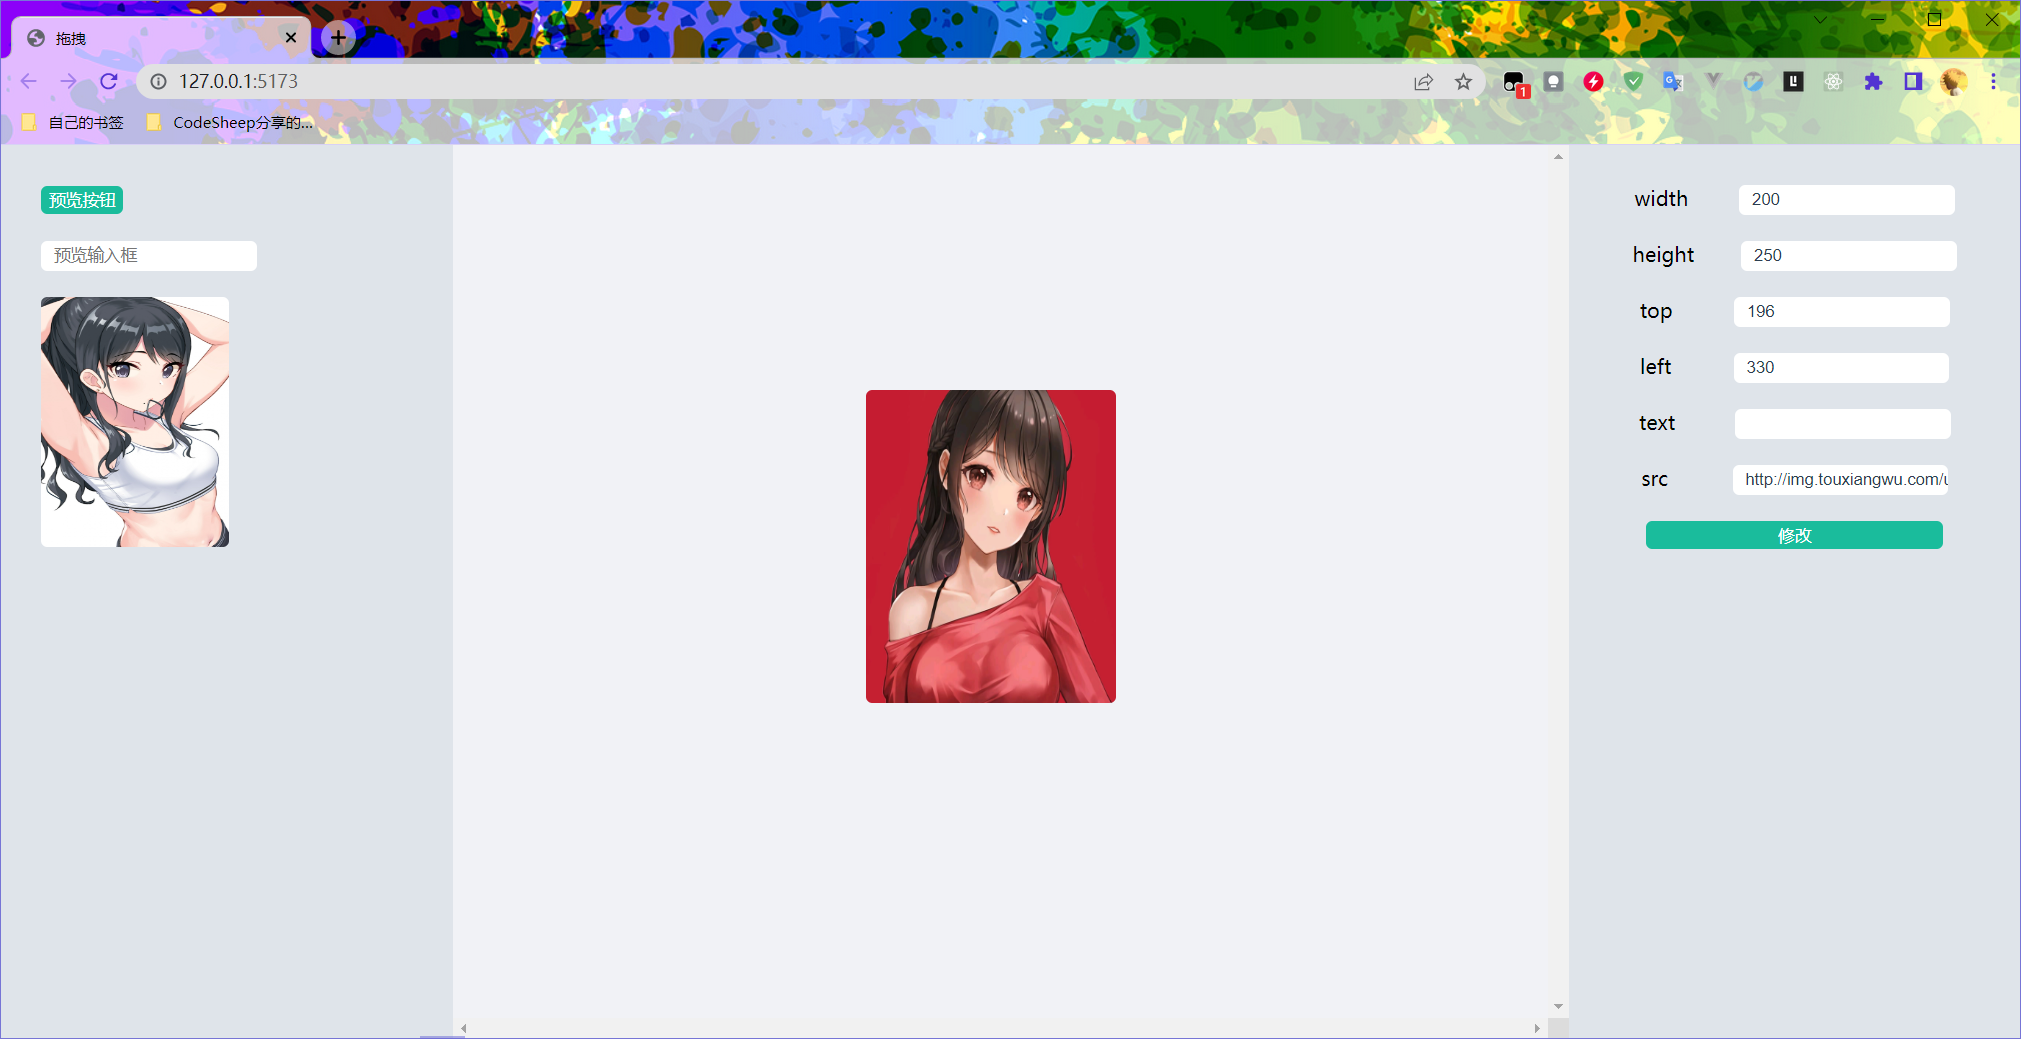
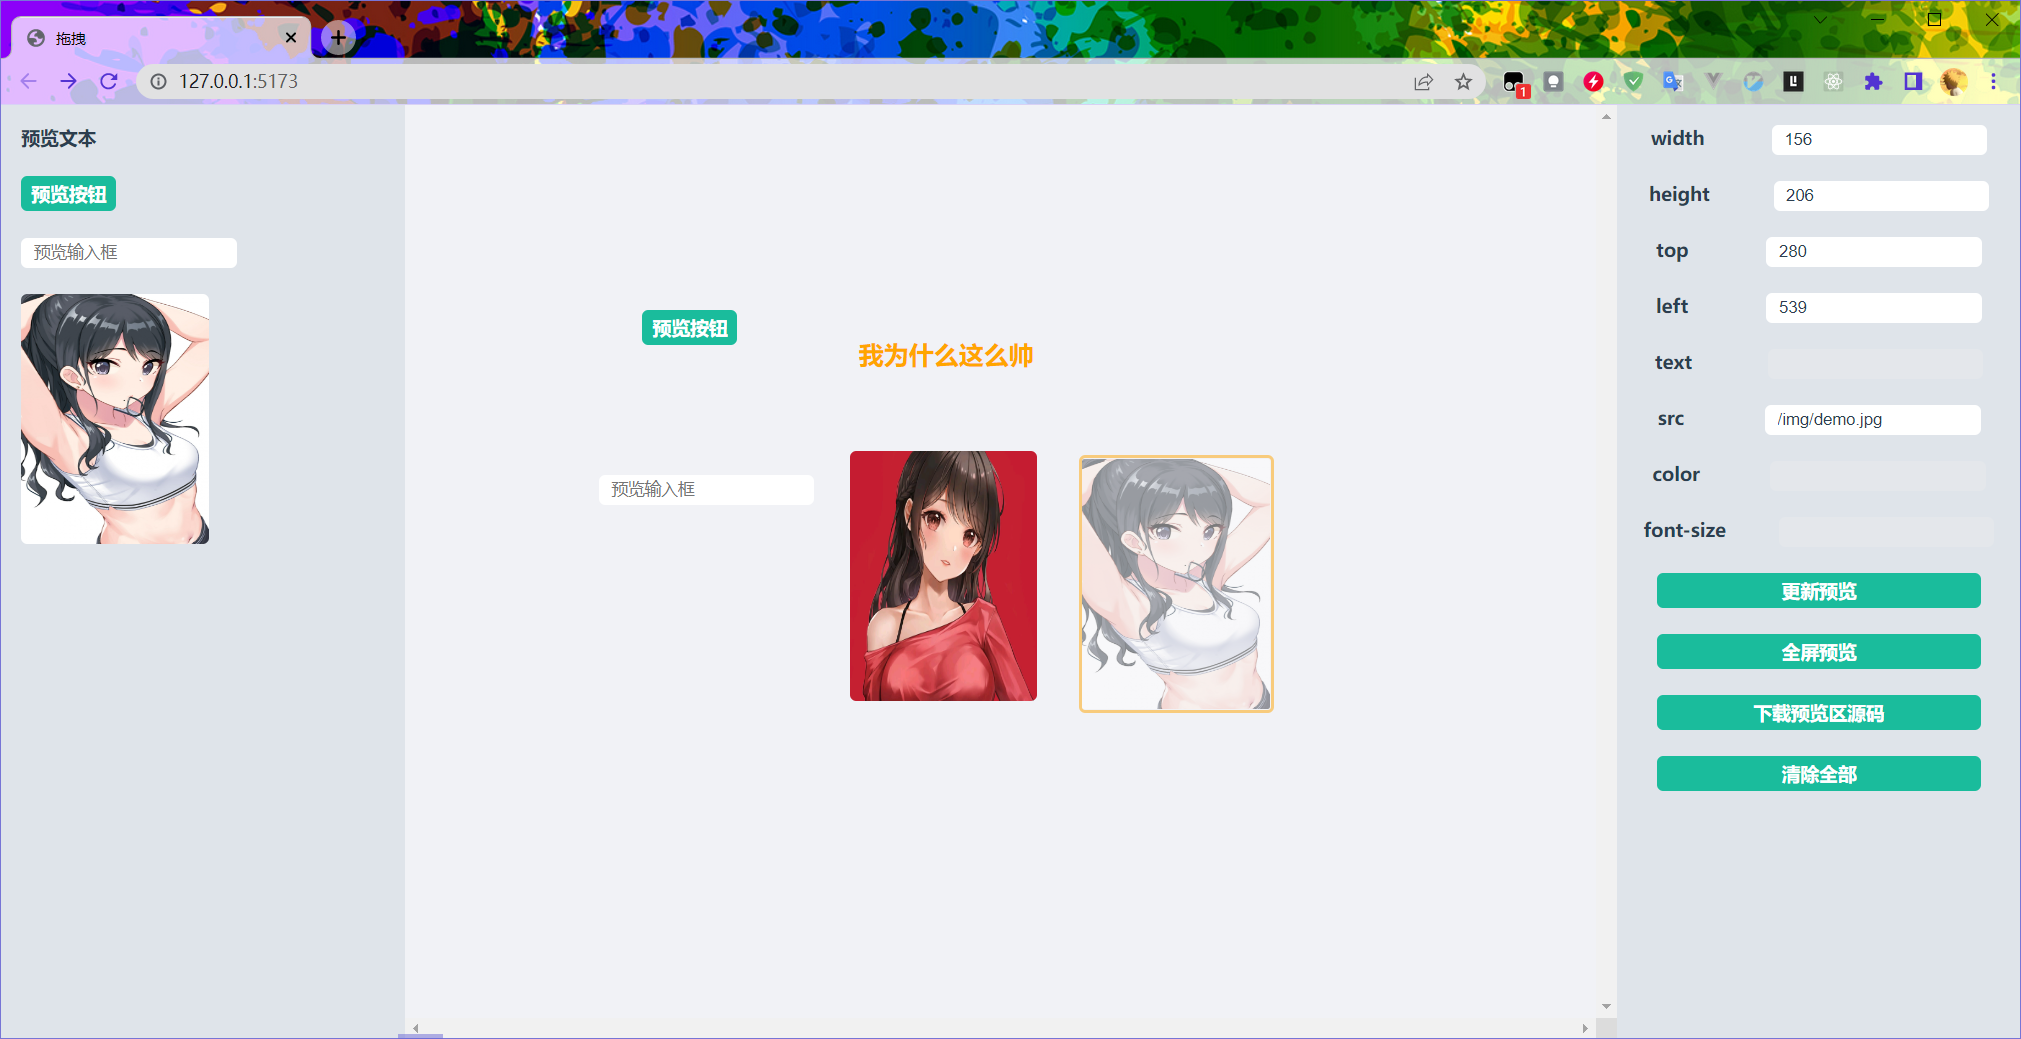
feat:拖拽更新元素位置

diff --git a/index.js b/index.js
@@ -16,16 +16,31 @@ const clearBtn = document.querySelector('.clear')
 // 记录当前拖拽的元素
 let curr = null
 
-const dragenter = e => {
-  e.dataTransfer.dropEffect = 'move'
+// 移除编辑区域的元素的选中框
+const clearAllselected = _ => {
+  Array.prototype.slice
+    .call(midden.children)
+    .forEach(c => c.classList.remove('selected'))
 }
 
+// 给当前选中的元素加上标记框
+const selectedEl = el => {
+  clearAllselected()
+  el.classList.add('selected')
+}
+
+// 组件进入编辑区域
+const dragenter = e => {
+  // console.log('进入编辑区域');
+}
+// 组件经过编辑区域
 const dragover = e => {
+  // 取消默认事件
   e.preventDefault()
 }
-
+// 组件离开编辑区域
 const dragleave = e => {
-  e.dataTransfer.dropEffect = 'none'
+  // console.log('离开编辑区域');
 }
 
 const drop = e => {
@@ -37,36 +52,81 @@ const drop = e => {
     // 元素在页面中相对于视口的位置
     const rect = curr.getBoundingClientRect()
     const child = curr.cloneNode()
-    child.draggable = false
     child.style.position = 'absolute'
     child.style.top = top + 'px'
     child.style.left = left + 'px'
-    child.style.width = rect.width
-    child.style.height = rect.height
-    child.textContent = curr.textContent
-    child.src = curr.getAttribute('src')
+    // 如果有文字内容就需要加上
+    if (curr.textContent) {
+      child.textContent = curr.textContent
+    }
     child.style.zIndex = 1
-    child.onclick = _ => {
-      curr = child
+    // 填充右边属性栏的值
+    const setProp = _ => {
+      // 先允许所有的输入框给输入
+      inputs.forEach(i => i.disabled = false)
       inputs[0].value = rect.width
       inputs[1].value = rect.height
       inputs[2].value = top
       inputs[3].value = left
-      inputs[4].value = curr.textContent
-      inputs[5].value = curr.getAttribute('src')
-      inputs[6].value = curr.style.color
+      // 动态关闭一些输入框
+      if (curr.textContent) {
+        inputs[4].value = curr.textContent
+      } else {
+        inputs[4].value = ''
+        inputs[4].disabled = true
+      }
+      if (curr.getAttribute('src')) {
+        inputs[5].value = curr.getAttribute('src')
+      } else {
+        inputs[5].value = ''
+        inputs[5].disabled = true
+      }
+      if (curr.style.color) {
+        inputs[6].value = curr.style.color
+      } else {
+        inputs[6].value = ''
+        inputs[6].disabled = true
+      }
+      if (curr.style.fontSize) {
+        inputs[7].value = curr.style.fontSize
+      } else {
+        inputs[7].value = ''
+        inputs[7].disabled = true
+      }
     }
+    child.onclick = function (e) {
+      // 阻止冒泡事件,不然就移动不了了
+      e.stopPropagation()
+      curr = this
+      selectedEl(this)
+      setProp()
+    }
+    // 先添加新元素,然后删掉之前的元素
     midden.appendChild(child)
+    // 添加的时候默认选中当前的元素
+    selectedEl(child)
+    // 遍历预览区的所有子元素,判断有没有和当前元素是一样的,如果一样就移除掉这个子元素
+    Array.prototype
+      .slice.call(midden.children)
+      .forEach(c => {
+        if (curr === c) {
+          midden.removeChild(c)
+        }
+      })
+    // 设置属性到右边的属性栏
+    setProp()
+    // 让当前选中的元素指向刚刚创建的这个元素
+    curr = child
   }
 }
 
 const addComponent = (component) => {
   curr = component
-  // dragenter进入目标元素中,添加一个移动的标记
+  // dragenter组件进入编辑区域中
   midden.addEventListener('dragenter', dragenter)
   // dragover在目标元素中经过,必须要阻止默认行为,不然不能触发drop事件
   midden.addEventListener('dragover', dragover)
-  // dragleave离开目标元素时,添加一个禁用标记
+  // dragleave组件离开编辑区域
   midden.addEventListener('dragleave', dragleave)
   // drop在目标元素松开时,添加一个组件
   midden.addEventListener('drop', drop)
@@ -79,6 +139,18 @@ Array.prototype
     // 元素拖动事件监听
     component.ondragstart = _ => addComponent(component)
   })
+
+midden.onclick = _ => {
+  // 取消选中的元素
+  curr = null
+  // 清空属性框中的值
+  inputs.forEach(i => {
+    i.value = ''
+    i.disabled = false
+  })
+  // 取消组件的选中框
+  clearAllselected()
+}
 
 // 生成html代码
 const generateCode = code => `
@@ -112,20 +184,32 @@ const generateCodeSource = (code, fileName) => {
 
 // 改变元素属性
 changeBtn.onclick = _ => {
-  const width = inputs[0].value
-  const height = inputs[1].value
-  const top = inputs[2].value
-  const left = inputs[3].value
-  const text = inputs[4].value
-  const src = inputs[5].value
-  const color = inputs[6].value
-  curr.style.width = width + 'px'
-  curr.style.height = height + 'px'
-  curr.style.top = top + 'px'
-  curr.style.left = left + 'px'
-  curr.textContent = text
-  curr.src = src
-  curr.style.color = color
+  if (curr) {
+    const width = inputs[0].value
+    const height = inputs[1].value
+    const top = inputs[2].value
+    const left = inputs[3].value
+    const text = inputs[4].value
+    const src = inputs[5].value
+    const color = inputs[6].value
+    const font_size = inputs[7].value
+    curr.style.width = width + 'px'
+    curr.style.height = height + 'px'
+    curr.style.top = top + 'px'
+    curr.style.left = left + 'px'
+    if (text) {
+      curr.textContent = text
+    }
+    if (src) {
+      curr.src = src
+    }
+    if (color) {
+      curr.style.color = color
+    }
+    if (font_size) {
+      curr.style.fontSize = font_size
+    }
+  }
 }
 
 // 全屏预览

diff --git a/index.css b/index.css
@@ -23,6 +23,7 @@
   position: relative;
   background-color: #f1f2f6;
   overflow: scroll;
+  z-index: 0;
 }
 
 #right {
@@ -36,6 +37,17 @@
 #right .item {
   display: flex;
   justify-content: space-around;
+}
+
+.code {
+  display: none;
+  position: absolute;
+  top: 0;
+  left: 0;
+  width: 100%;
+  height: 100%;
+  z-index: 2;
+  background-color: #f1f2f6;
 }
 
 .btn {
@@ -61,6 +73,7 @@
   width: 150px;
   height: 200px;
   border-radius: 5px;
+  cursor: nw-resize;
 }
 
 .text {
@@ -69,13 +82,8 @@
   font-weight: 600;
 }
 
-.code{
-  display: none;
-  position: absolute;
-  top: 0;
-  left: 0;
-  width: 100%;
-  height: 100%;
-  z-index: 2;
-  background-color: #f1f2f6;
+/* 元素选中框 */
+.selected {
+  border: 3px solid #ffa502 !important;
+  opacity: 0.5 !important;
 }

diff --git a/index.html b/index.html
@@ -84,10 +84,15 @@
       </label>
       <br>
       <label class="item">
-        <button class="btn change" style="width: 80%;">更新预览</button>
+        <span class="text">font-size</span>
+        <input class="inp" type="text">
       </label>
       <br>
       <label class="item">
+        <button class="btn change" style="width: 80%;">更新预览</button>
+      </label>
+      <br>
+      <label class="item" title="双击退出全屏预览">
         <button class="btn look" style="width: 80%;">全屏预览</button>
       </label>
       <br>
